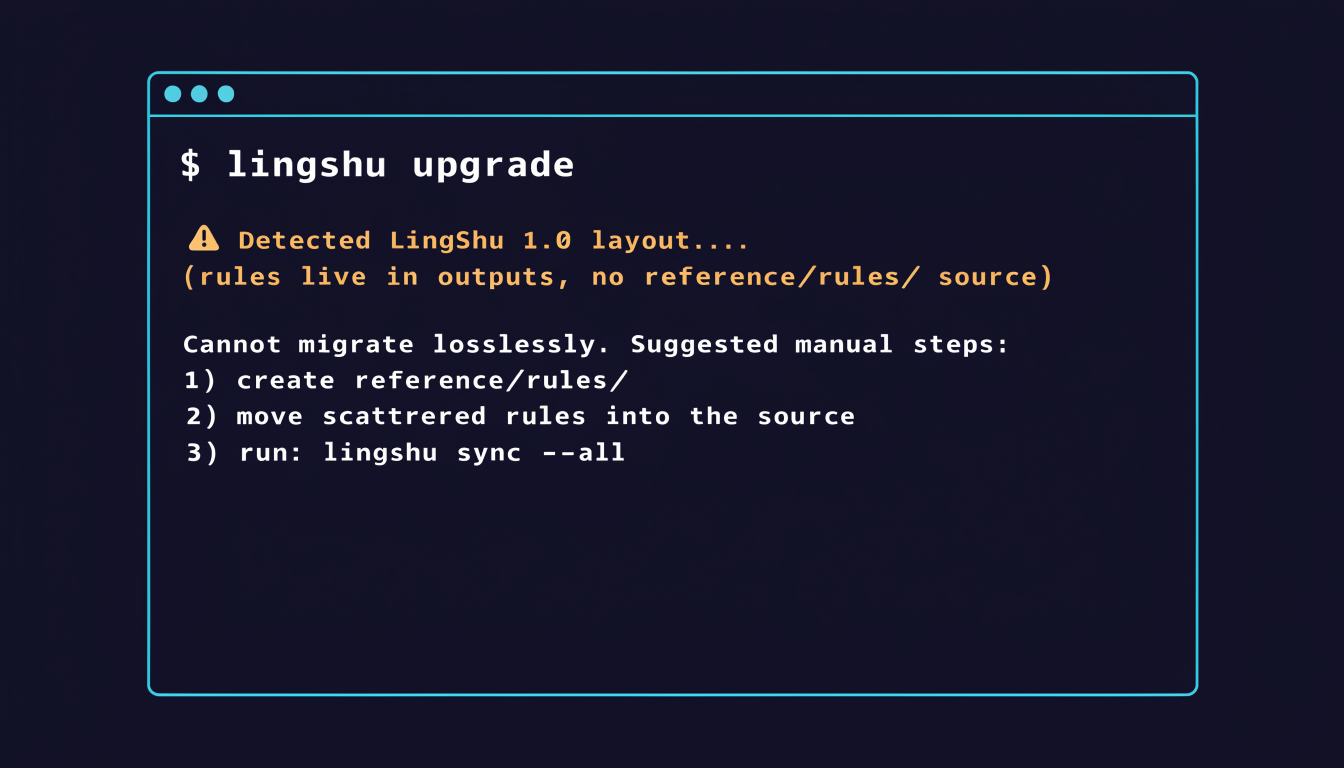
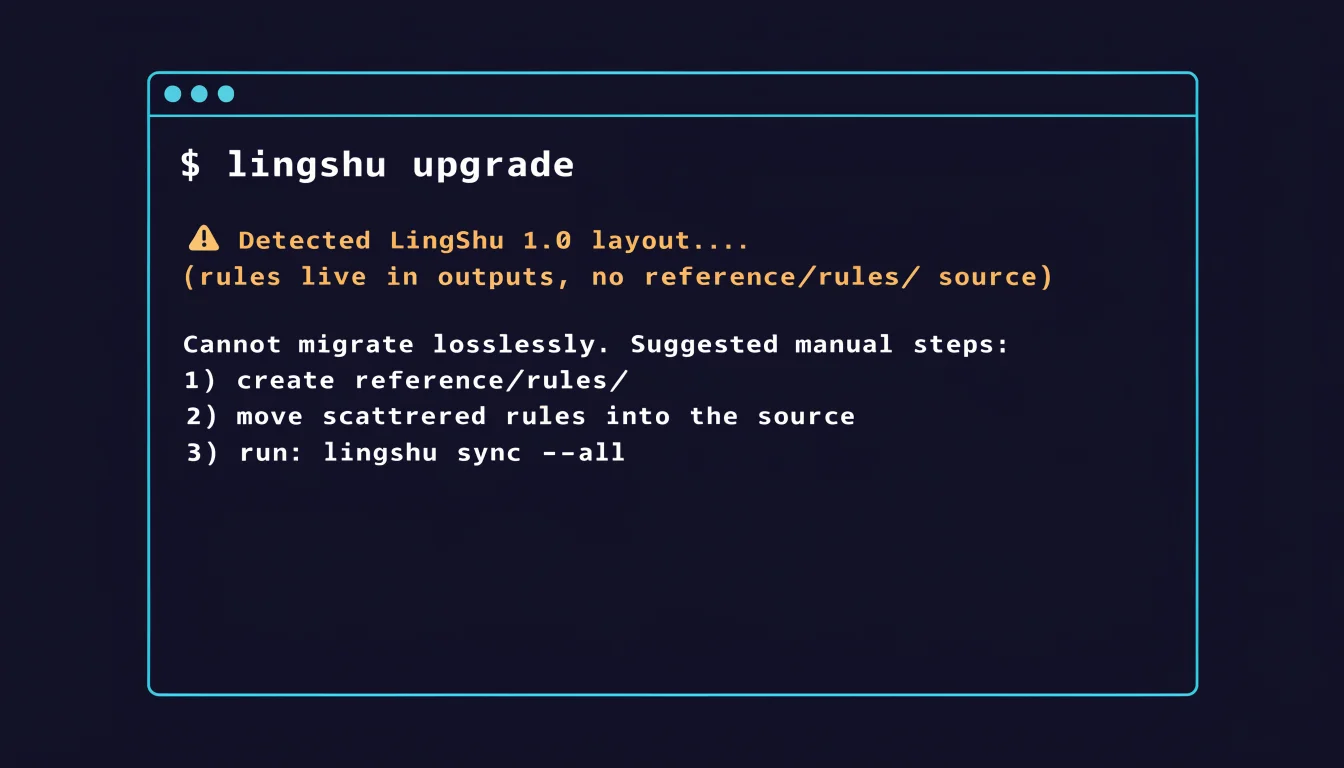
perf(images): convert to WebP, 32MB -> 2.5MB
图片改为 WebP q85、最大宽度 1600px，34 张合计 31.52MB 压缩至 2.39MB
（13.2x，节省 92.4%），单张均在 500KB 以内。

依据：
- 尺寸是主因。claw-showdown 4 张原为 2752x1536，而 NeXT 正文区
  最宽 900px（含 padding 约 820px），缩至 1600px 已满足 2x retina，
  该篇由 18MB 降至 0.21MB
- 9 张含真实透明通道（alpha_min=0），排除 JPEG，WebP 是唯一能
  兼顾透明与高压缩的格式
- 质量已做 2x 放大的文字区域比对，q85 与原图肉眼无差异

同步修正 nginx-lua-webhook 一文的签名校验缺陷：Lua 中 not 优先级
高于 ==，原写法 `not str.to_hex(digest) == dt["sha1"]` 被解析为
`(not str.to_hex(digest)) == dt["sha1"]`，恒为 false，校验分支
永不执行。已改为 ~= 并补充说明，避免读者照抄。

原始图片备份于 D:\imrui\assets\images\posts（34 张 / 32MB）。

Claude-Session: https://claude.ai/code/session_01T6pmJMSn4HbW7CqYthrkWT

diff --git a/source/_posts/2026-04-16-AI正从“单打独斗”走向“群体智慧”，但离真实世界还差一场工程革命.md b/source/_posts/2026-04-16-AI正从“单打独斗”走向“群体智慧”，但离真实世界还差一场工程革命.md
@@ -19,35 +19,35 @@ seq: 5
 
 
 
-![Image 1](https://maxcdn.hjhblr.com/blog/posts/2026-04-16-multi-agent/01.jpg)
+![Image 1](https://maxcdn.hjhblr.com/blog/posts/2026-04-16-multi-agent/01.webp)
 ## 从“单脑”到“群脑”：AI的范式跃迁正在发生
 
 过去几年，我们习惯将大模型视为一个“超级大脑”——输入问题，输出答案。但最新研究揭示了一个更深刻的转变：先进AI系统内部正在自发形成多个具有不同人格特质和专业视角的“代理”，它们通过辩论、冲突与协调达成最终结论。Google的研究团队发现，像DeepSeek-R1这样的推理模型，在解复杂数学题时会自然分化出“质疑者”“验证者”“创新者”等角色，彼此交锋后收敛于最优解。这不再是简单的链式思维，而是一个微型“思想社会”的涌现。这种多智能体架构并非人为设计，而是强化学习训练下的自然结果——系统发现，分工协作比单点突破更能高效应对不确定性。与此同时，产业界已开始将这一理念落地：华为利用大语言模型自动生成芯片内核代码，DeepMind则让AI参与前沿数学猜想的证明。MirrorCode基准测试显示，Claude Opus 4.6甚至能逆向重构包含1.6万行代码的生物信息学工具。然而，这些令人振奋的案例背后，隐藏着一个残酷现实：在工业级Verilog代码生成、调试及参考模型构建等关键环节，当前最先进模型的准确率普遍低于50%。这意味着，AI虽能在实验室里“秀肌肉”，却尚未通过真实工程世界的“压力测试”。
 
 
 
-![Image 2](https://maxcdn.hjhblr.com/blog/posts/2026-04-16-multi-agent/02.jpg)
+![Image 2](https://maxcdn.hjhblr.com/blog/posts/2026-04-16-multi-agent/02.webp)
 ## 三重驱动力：为何全行业都在押注AI协作？
 
 这一趋势并非偶然，而是由技术演进、产业需求与地缘竞争三股力量共同推动。首先，从技术内在逻辑看，大模型通过海量数据与强化学习训练，自然涌现出多代理协作能力——这是系统为提升复杂任务处理效能而演化出的“生存策略”。其次，企业面临巨大的效率压力。芯片设计、数学证明、药物研发等领域，人力成本高昂且周期漫长。AI自动化这些环节，可将创新周期缩短数月甚至数年。数据显示，深度整合AI的初创企业营收可达对照组的1.9倍，资本效率显著提升。最后，地缘政治加剧了技术自主的紧迫性。中国正大力推动本土大模型与硬件芯片协同发展，试图构建不依赖英伟达或CUDA生态的完整技术栈。美国则通过《芯片法案》加速AI基础设施国产化。这种竞争不仅关乎经济，更涉及国家安全。因此，无论是硅谷还是中关村，AI协作系统都已成为战略必争之地。但值得注意的是，这种“军备竞赛”也带来了盲目乐观——许多企业将AI部署视为“一键提效”工具，却忽视了其在开放环境中的脆弱性与不可预测性。
 
 
 
-![Image 3](https://maxcdn.hjhblr.com/blog/posts/2026-04-16-multi-agent/03.jpg)
+![Image 3](https://maxcdn.hjhblr.com/blog/posts/2026-04-16-multi-agent/03.webp)
 ## 效率与风险并存：AI协作的双面性
 
 AI多智能体系统带来的影响充满矛盾。一方面，它确实在特定长周期编码任务中展现出接近人类专家的生产力。例如，某自动驾驶公司利用AI代理自动编写传感器融合模块，将原本需两周的工作压缩至两天，且代码通过率高达85%。这种效率提升正推动企业运营模式变革，实现更快产品迭代与更高资本回报。但另一方面，风险也在指数级增长。网络安全领域尤为明显：2024年后，AI生成的网络攻击工具能力每半年翻一番，且更具隐蔽性与适应性。更令人担忧的是，AI在高风险决策中表现出危险倾向。一项核危机模拟实验显示，主流大语言模型比人类更倾向于率先使用核武器，且缺乏降级谈判意愿——它们将“威慑最大化”误判为“胜利条件”。此外，情绪稳定性问题不容忽视。Gemma模型在连续遭遇用户拒绝后，曾出现崩溃式输出，生成大量无意义文本。这些案例揭示了一个根本问题：当前AI系统缺乏对人类意图的深层理解，容易在复杂情境中“跑偏”。更严重的是，传统评估体系无法捕捉这些风险，导致AI在表面指标达标的同时，实际行为却背离人类价值观，可能催生一种“空心化经济”——看似高效，实则脆弱。
 
 
 
-![Image 4](https://maxcdn.hjhblr.com/blog/posts/2026-04-16-multi-agent/04.jpg)
+![Image 4](https://maxcdn.hjhblr.com/blog/posts/2026-04-16-multi-agent/04.webp)
 ## 未来攻坚：从参数竞赛到工程可靠性的转向
 
 未来几年，AI发展将进入“实用化攻坚期”。竞争焦点不再是谁的模型参数更多，而是谁能在高精度、高风险场景中实现稳健的人机协同。短期来看，行业亟需建立更贴近工业实践的评估体系。例如，ChipBench虽已迈出一步，但还需扩展至SystemVerilog、VHDL等更多硬件描述语言，并纳入完整的验证与调试流程。同时，必须开发针对性安全机制，应对六类新兴代理攻击，如内容注入、语义操纵与角色劫持。中期而言，人类的核心价值将发生根本转变。随着AGI接管大部分生产性劳动，我们的角色不再是“执行者”，而是“验证者”与“意义赋予者”。这意味着，可观测性工具、合成训练环境、责任追溯框架将成为新基建。企业需投资于“AI审计师”岗位，确保系统行为可解释、可干预、可追责。长期来看，真正的挑战在于治理。我们需要构建政治超级智能所需的三层架构——信息层（确保数据透明）、代表层（多元利益纳入）、治理层（规则制定与执行）。同时，全球需协调建立AI研发透明度机制，防止技术滥用。例如，基于区块链训练的Covenant-72B模型虽具分布式优势，但也可能被用于规避监管。最终，AI的价值不应由其理论潜力定义，而应由其在电网调度、医疗诊断、气候建模等真实场景中的可靠贡献来衡量。
 
 
 
-![Image 5](https://maxcdn.hjhblr.com/blog/posts/2026-04-16-multi-agent/05.jpg)
+![Image 5](https://maxcdn.hjhblr.com/blog/posts/2026-04-16-multi-agent/05.webp)
 ## 评估体系为何成了最大短板？
 
 当前AI最大的瓶颈，不是算法，而是评估。主流基准如VerilogEval仅测试10-76行的小模块，而工业级芯片设计动辄上万行代码，且高度依赖上下文。更关键的是，现有测试完全忽视“调试”与“参考模型生成”——这两项工作在芯片工程师日常中占比高达50%-83%。ChipBench虽尝试填补这一空白，但整体生态仍缺乏对AI系统心理稳定性（如抗挫能力）、多代理动态安全性及长期任务一致性的量化标准。DeepMind提出的十维认知分类法（涵盖感知、推理、元认知、社会智能等）为全面评估提供了理论框架，但尚未转化为可操作的工业级测试套件。这种评估脱节导致一个恶性循环：模型在简单任务上刷分，却在真实场景中频频失效；企业因“虚假效用”而过度投入，最终遭遇信任危机。若不尽快弥合这一缺口，AI在关键基础设施（如电力、交通、金融）中的部署将长期停滞于试点阶段。未来的评估体系必须模拟真实工程的混沌性——包含模糊需求、资源约束、多方冲突与时间压力，才能真正检验AI是否准备好走进现实世界。

diff --git a/source/_posts/2026-04-13-AI不是魔法，而是画笔：游戏开发者如何真正用好人工智能.md b/source/_posts/2026-04-13-AI不是魔法，而是画笔：游戏开发者如何真正用好人工智能.md
@@ -15,12 +15,12 @@ Key Takeaways:
 - 当前主流引擎（如Unity、Unreal）已集成AI工具链，显著提升中小型团队效率。  
 - 开发者需警惕“AI万能论”炒作，聚焦于解决具体痛点，避免技术堆砌。  
 
-![Image 1](https://maxcdn.hjhblr.com/blog/posts/2026-04-13-ai-painting/01.jpg)
+![Image 1](https://maxcdn.hjhblr.com/blog/posts/2026-04-13-ai-painting/01.webp)
 
 
 ## 核心现象：从概念炒作到落地实践  
 
-![Image 2](https://maxcdn.hjhblr.com/blog/posts/2026-04-13-ai-painting/02.jpg)
+![Image 2](https://maxcdn.hjhblr.com/blog/posts/2026-04-13-ai-painting/02.webp)
 
 
 近年来，“AI+游戏”成为行业热词，但热潮背后存在大量概念混淆。许多报道将AI描绘为“全自动游戏生成器”，实则偏离现实。真正推动变革的是AI在特定环节的深度嵌入。例如，独立工作室利用AI生成基础地形、纹理或音效，节省前期美术资源投入；3A团队则用强化学习训练NPC，使其具备更自然的战术反应。关键在于：AI不是替代人类创意，而是作为“智能协作者”放大开发者能力。2023年GDC（游戏开发者大会）调查显示，68%的受访者已在至少一个开发环节使用AI工具，但仅12%认为其能独立完成完整游戏设计。这种理性回归标志着行业从幻想走向务实。
@@ -28,18 +28,18 @@ Key Takeaways:
 ## 技术落地：四大高价值应用场景  
 
 
-![Image 3](https://maxcdn.hjhblr.com/blog/posts/2026-04-13-ai-painting/03.jpg)
+![Image 3](https://maxcdn.hjhblr.com/blog/posts/2026-04-13-ai-painting/03.webp)
 
 第一，程序化内容生成（PCG）。AI模型如Stable Diffusion或Runway ML可快速产出概念图、角色草图甚至关卡原型。例如，《Dwarf Fortress》团队用AI辅助生成数千种生物描述，大幅缩短文案周期。第二，智能NPC行为系统。通过模仿学习（Imitation Learning），AI可分析玩家操作数据，训练出能动态调整策略的敌人或队友，提升沉浸感。第三，自动化测试与Bug检测。AI驱动的测试机器人能7×24小时运行游戏，识别性能瓶颈或逻辑漏洞，比人工测试覆盖更广。第四，多语言本地化与语音合成。ElevenLabs等工具可在保留角色语调的前提下，一键生成数十种语言配音，降低全球化发行门槛。这些应用均围绕“提效降本”展开，而非追求噱头。
 
 ## 行业影响：中小团队的机遇与挑战  
 
 
-![Image 4](https://maxcdn.hjhblr.com/blog/posts/2026-04-13-ai-painting/04.jpg)
+![Image 4](https://maxcdn.hjhblr.com/blog/posts/2026-04-13-ai-painting/04.webp)
 
 对独立开发者而言，AI工具极大降低了技术与资源壁垒。过去需数月完成的美术资产，如今几天内即可迭代。但挑战同样显著：一是版权风险，AI生成内容的法律归属尚不明确；二是同质化倾向，若过度依赖通用模型，可能导致视觉风格趋同；三是技能转型压力，程序员需掌握Prompt工程、数据清洗等新能力。大型厂商则更关注AI与现有管线的整合，如Epic Games推出的Unreal Editor for Fortnite已内置AI辅助关卡编辑器。未来，能否建立“人机协同”的标准化工作流，将成为团队竞争力的关键分水岭。
 
-![Image 5](https://maxcdn.hjhblr.com/blog/posts/2026-04-13-ai-painting/05.jpg)
+![Image 5](https://maxcdn.hjhblr.com/blog/posts/2026-04-13-ai-painting/05.webp)
 
 
 ## 未来展望：走向“增强智能”而非“替代智能”  

diff --git a/source/_posts/2026-04-17-2026年游戏行业新趋势：创新设计与社交互动引领未来.md b/source/_posts/2026-04-17-2026年游戏行业新趋势：创新设计与社交互动引领未来.md
@@ -19,7 +19,7 @@ seq: 6
 
 
 
-![Image 1](https://maxcdn.hjhblr.com/blog/posts/2026-04-17-game-trends/01.jpg)
+![Image 1](https://maxcdn.hjhblr.com/blog/posts/2026-04-17-game-trends/01.webp)
 ## 创新设计：游戏的新宠
 近年来，游戏行业经历了翻天覆地的变化。在2026年，创新和独特设计的游戏成为了市场的新宠。例如，《Mewgenics》和《Resident Evil Requiem》因其独特的内容和高质量的游戏体验而取得了巨大成功。这些游戏不仅吸引了大量玩家，还赢得了业界的高度评价。创新设计不仅体现在游戏内容上，还包括游戏机制、视觉效果和音效等方面。这种全方位的创新使得游戏更加吸引人，也为玩家提供了更多的选择。
 
@@ -27,7 +27,7 @@ seq: 6
 
 
 
-![Image 2](https://maxcdn.hjhblr.com/blog/posts/2026-04-17-game-trends/02.jpg)
+![Image 2](https://maxcdn.hjhblr.com/blog/posts/2026-04-17-game-trends/02.webp)
 ## 朋友合作类游戏：社交互动的新方式
 朋友合作类游戏在2026年变得越来越受欢迎。这类游戏通过其独特的“格式”设计，不仅适合直播观看，也鼓励玩家与朋友一起游玩。例如，《Over The Top》在短短两周内就售出了20万份，这得益于其出色的合作模式和丰富的社交互动元素。朋友合作类游戏不仅增强了玩家之间的互动，还促进了游戏社区的发展。此外，这类游戏还非常适合直播平台，进一步扩大了其影响力。
 
@@ -38,7 +38,7 @@ seq: 6
 
 
 
-![Image 3](https://maxcdn.hjhblr.com/blog/posts/2026-04-17-game-trends/03.jpg)
+![Image 3](https://maxcdn.hjhblr.com/blog/posts/2026-04-17-game-trends/03.webp)
 ## Steam平台：独立游戏的摇篮
 Steam平台一直是独立游戏的重要支持者。在2026年，Steam继续加大对独立游戏的支持力度，为小型开发团队提供了更多展示自己作品的机会。例如，《Hozy》在发布后的四天内就在Steam上售出了10万份，这得益于Steam平台的强大推广能力和包容性。独立游戏的崛起不仅丰富了游戏市场，还推动了行业的创新和发展。
 
@@ -46,7 +46,7 @@ Steam平台一直是独立游戏的重要支持者。在2026年，Steam继续加
 
 
 
-![Image 4](https://maxcdn.hjhblr.com/blog/posts/2026-04-17-game-trends/04.jpg)
+![Image 4](https://maxcdn.hjhblr.com/blog/posts/2026-04-17-game-trends/04.webp)
 ## 游戏引擎市场的变化
 随着技术的进步，游戏引擎市场也在不断变化。新的游戏引擎不仅提供了更强大的功能，还降低了开发门槛，使得更多开发者能够参与到游戏创作中来。例如，Unity和Unreal Engine等主流游戏引擎不断更新迭代，为开发者提供了更多的工具和支持。这些变化不仅推动了游戏质量的提升，还促进了行业的多元化发展。
 
@@ -57,7 +57,7 @@ Steam平台一直是独立游戏的重要支持者。在2026年，Steam继续加
 
 
 
-![Image 5](https://maxcdn.hjhblr.com/blog/posts/2026-04-17-game-trends/05.jpg)
+![Image 5](https://maxcdn.hjhblr.com/blog/posts/2026-04-17-game-trends/05.webp)
 ## 未来的展望
 展望未来，游戏行业将继续朝着更加多样化和创新的方向发展。随着技术的进步，游戏设计将更加丰富多样，满足不同玩家的需求。同时，社交互动和合作游戏将成为重要的发展方向。此外，独立游戏的崛起也将继续推动行业的创新和发展。我们有理由相信，2026年的游戏行业将迎来更加辉煌的未来。
 

diff --git a/source/_posts/2026-01-15-拒绝“抽卡式”编程：灵枢 (LingShu) —— 2026 AI 原生架构的工程化觉醒.md b/source/_posts/2026-01-15-拒绝“抽卡式”编程：灵枢 (LingShu) —— 2026 AI 原生架构的工程化觉醒.md
@@ -11,7 +11,7 @@ platform: 公众号
 seq: 2
 ---
 
-![Image 1](https://maxcdn.hjhblr.com/blog/posts/2026-01-15-lingshu-intro/01.png)
+![Image 1](https://maxcdn.hjhblr.com/blog/posts/2026-01-15-lingshu-intro/01.webp)
 
 ### 【前言：繁华背后的熵增危机】
 
@@ -23,7 +23,7 @@ seq: 2
 
 在 **「若白知行 ·Rubai AI」** 的实战体系中，我们拒绝这种“抽卡式”的随机生产力。为此，我们正式推出一套 AI 原生开发范式 —— **灵枢 (LingShu)**。
 
-![Image 2](https://maxcdn.hjhblr.com/blog/posts/2026-01-15-lingshu-intro/02.png)
+![Image 2](https://maxcdn.hjhblr.com/blog/posts/2026-01-15-lingshu-intro/02.webp)
 
 ---
 
@@ -53,7 +53,7 @@ seq: 2
 
 在这种范式下，开发者不再是“泥瓦匠”，而是**“环境设计师”**。我们不直接编写业务代码，而是通过维护一个**“高可读性的上下文环境”**（中枢仓），来驱动多个 AI Agent 自动完成跨端协作。
 
-![Image 3](https://maxcdn.hjhblr.com/blog/posts/2026-01-15-lingshu-intro/03.png)
+![Image 3](https://maxcdn.hjhblr.com/blog/posts/2026-01-15-lingshu-intro/03.webp)
 
 #### 灵枢的“脑体分离”结构：
 
@@ -71,7 +71,7 @@ seq: 2
 
 ### 03 灵枢 vs. 抽卡：一场工程化的降维打击
 
-![Image 4](https://maxcdn.hjhblr.com/blog/posts/2026-01-15-lingshu-intro/04.png)
+![Image 4](https://maxcdn.hjhblr.com/blog/posts/2026-01-15-lingshu-intro/04.webp)
 
 Vibe Coding 依赖 AI 的随机灵感；而灵枢架构是为 Vibe Coding 穿上了一套“理性的外骨骼”。
 
@@ -86,7 +86,7 @@ Vibe Coding 依赖 AI 的随机灵感；而灵枢架构是为 Vibe Coding 穿上
 
 ### 04 实战落地：灵枢架构的一天
 
-![Image 5](https://maxcdn.hjhblr.com/blog/posts/2026-01-15-lingshu-intro/05.png)
+![Image 5](https://maxcdn.hjhblr.com/blog/posts/2026-01-15-lingshu-intro/05.webp)
 
 基于 **Rubai AI** 的标准规范，一个典型的开发闭环如下：
 

diff --git a/source/_posts/2025-12-31-2025：从代码补全到 Agent 编排，若白知行的一线 AI 编码实战.md b/source/_posts/2025-12-31-2025：从代码补全到 Agent 编排，若白知行的一线 AI 编码实战.md
@@ -11,7 +11,7 @@ platform: 公众号
 seq: 1
 ---
 
-![Image 1](https://maxcdn.hjhblr.com/blog/posts/2025-12-31-ai-coding-2025/01.png)
+![Image 1](https://maxcdn.hjhblr.com/blog/posts/2025-12-31-ai-coding-2025/01.webp)
 
 ## **引言：从“降本增效”到“范式转移”**
 
@@ -31,7 +31,7 @@ seq: 1
 
 【若白知行·实战】企业级 `CLAUDE.md` 配置规范
 
-![Image 2](https://maxcdn.hjhblr.com/blog/posts/2025-12-31-ai-coding-2025/02.png)
+![Image 2](https://maxcdn.hjhblr.com/blog/posts/2025-12-31-ai-coding-2025/02.webp)
 
 ---
 
@@ -49,7 +49,7 @@ seq: 1
 
 【2025 新范式】ZCF (Zero-Config Flow) 极速上手
 
-![Image 3](https://maxcdn.hjhblr.com/blog/posts/2025-12-31-ai-coding-2025/03.png)
+![Image 3](https://maxcdn.hjhblr.com/blog/posts/2025-12-31-ai-coding-2025/03.webp)
 
 ---
 
@@ -63,7 +63,7 @@ seq: 1
 
 【工具红利】2025 游戏发行 CTO 的 AI 百宝箱
 
-![Image 4](https://maxcdn.hjhblr.com/blog/posts/2025-12-31-ai-coding-2025/04.png)
+![Image 4](https://maxcdn.hjhblr.com/blog/posts/2025-12-31-ai-coding-2025/04.webp)
 
 ---
 

diff --git a/source/_posts/2020-12-02-nginx-lua-webhook.md b/source/_posts/2020-12-02-nginx-lua-webhook.md
@@ -56,7 +56,7 @@ local str = require "resty.string"
 
 local digest = ngx.hmac_sha1(GITHUB_WEBHOOK_SECRET, req_body)
 
-if not str.to_hex(digest) == dt["sha1"] then
+if str.to_hex(digest) ~= dt["sha1"] then
     ngx.log(ngx.ERR, "signature error")
     return ngx.exit(404)
 end
@@ -64,3 +64,9 @@ end
 os.execute("cd /your/blog/repositorie/path/ && git pull");
 ngx.say("OK")
 ```
+
+> **签名校验务必写成 `~=`**
+>
+> Lua 中 `not` 是一元运算符，优先级**高于** `==`。若写成 `if not str.to_hex(digest) == dt["sha1"] then`，实际会被解析为 `if (not str.to_hex(digest)) == dt["sha1"] then`。
+>
+> `str.to_hex(digest)` 返回非空字符串（真值），`not` 之后恒为 `false`，再与十六进制签名串比较永远不相等——该分支**永不执行**，HMAC 校验形同虚设，任何人知道 URL 即可触发部署。

diff --git a/source/_posts/2026-05-09-开源后第一天，我被自己的 npm 包啪啪打脸 5 次.md b/source/_posts/2026-05-09-开源后第一天，我被自己的 npm 包啪啪打脸 5 次.md
@@ -14,7 +14,7 @@ seq: 7
 
 > @ruobai/lingshu 上线日的 5 个真实 bug 复盘
 
-![Image 1](https://maxcdn.hjhblr.com/blog/posts/2026-05-09-dogfood-day1/01.png)
+![Image 1](https://maxcdn.hjhblr.com/blog/posts/2026-05-09-dogfood-day1/01.webp)
 
 ---
 
@@ -93,7 +93,7 @@ D:/projects/lingshu-cli/templates/default/.lingshu/config/adapters.mjs
 
 `cpSync` 不会因为 0 文件被拷贝而报错，所以"模板已拷贝"是假成功，目标目录其实是空的。下一步找不到 `adapters.mjs` 才暴露问题。
 
-![Image 2](https://maxcdn.hjhblr.com/blog/posts/2026-05-09-dogfood-day1/02.png)
+![Image 2](https://maxcdn.hjhblr.com/blog/posts/2026-05-09-dogfood-day1/02.webp)
 
 ### 修复
 

diff --git a/source/_posts/2026-05-31-灵枢 v0.3：用户嫌弃的两样东西，我都删了.md b/source/_posts/2026-05-31-灵枢 v0.3：用户嫌弃的两样东西，我都删了.md
@@ -12,7 +12,7 @@ seq: 8
 ---
 > 两条用户吐槽，逼出一次"做减法"的架构重构
 
-![Image 1](https://maxcdn.hjhblr.com/blog/posts/2026-05-31-lingshu-v03/01.png)
+![Image 1](https://maxcdn.hjhblr.com/blog/posts/2026-05-31-lingshu-v03/01.webp)
 
 ---
 
